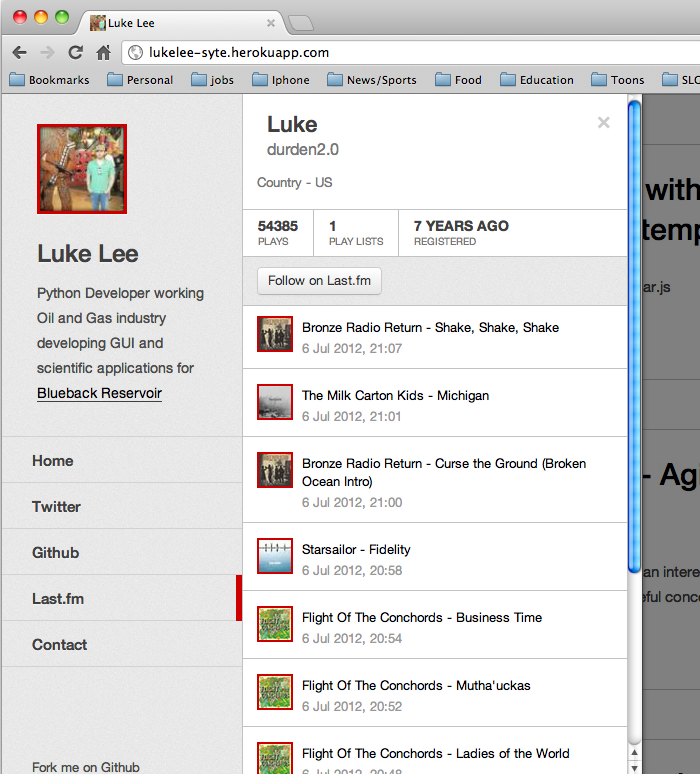
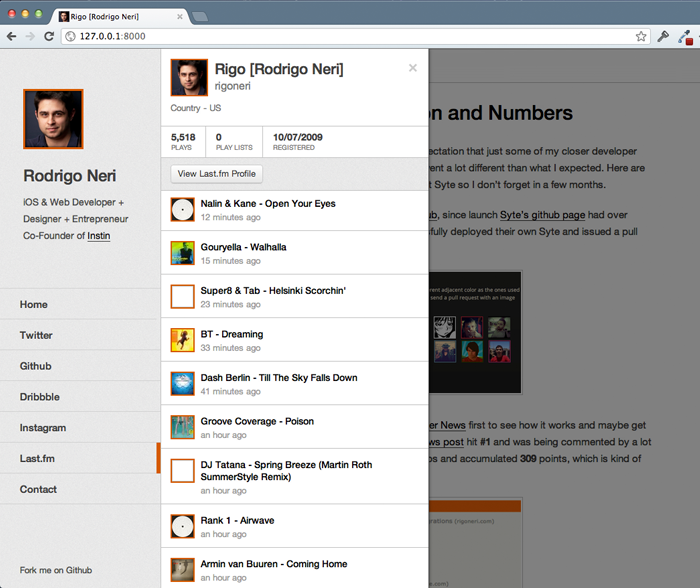
A few Last.fm integration adjustments. I still need to refactor some of the integration views so it's easier to implement but that will have to wait for another day. Closes #67

diff --git a/syte/static/templates/lastfm-profile.html b/syte/static/templates/lastfm-profile.html
@@ -2,23 +2,26 @@
 <div class="profile lastfm modal fade" id="lastfm-profile">
   <div class="profile-info">
     <button class="close" data-dismiss="modal">×</button>
+    {{#if image}}
+    <a href="{{ url }}" class="profile-avatar">
+      <img src="{{ avatar_url image }}" alt="{{name}}" />
+    </a>
+    {{/if}}
     <div class="profile-name">
-      <h2><a href="http://lastfm.com/user/{{ name }}">{{ realname }}</a></h2>
-      <h3><a href="http://lastfm.com/user/{{ name }}">{{ name }}</a></h3>
+        <h2><a href="{{ url }}">{{ realname }}</a></h2>
+      <h3><a href="{{ url }}">{{ name }}</a></h3>
     </div>
     <p class="profile-location-url">
-        {{#if country }}
-        <span>Country - {{ country }}</span>
-        {{/if}}
+      {{#if country }}<span>Country - {{ country }}</span>{{/if}}
     </p>
   </div>
   <ul class="profile-stats">
-    <li><a href="http://lastfm.com/user/{{ name }}"><strong>{{ playcount }}</strong> plays</a></li>
-    <li><a href="http://lastfm.com/user/{{ name }}/playlists"><strong>{{ playlists }}</strong> play lists</a></li>
-    <li><a href="http://lastfm.com/user/{{ name }}"><strong>{{ formatted_register_date }}</strong> registered</a></li>
+    <li><a href="{{ url }}"><strong>{{ formatted_plays }}</strong> plays</a></li>
+    <li><a href="{{ url }}/playlists"><strong>{{ formatted_playlists }}</strong> playlists</a></li>
+    <li><a href="{{ url }}"><strong>{{ formatted_register_date }}</strong> registered</a></li>
   </ul>
   <div class="profile-info-footer">
-    <a href="http://lastfm.com/user/{{ name }}" class="btn">Follow on Last.fm</a>
+    <a href="{{ url }}" class="btn">View Last.fm Profile</a>
   </div>
 {{/with}}
 {{#with recenttracks.recenttracks}}
@@ -28,12 +31,11 @@
         <a href="{{ url }}" class="track-image">
           <img src="{{ image_url image }}" alt="{{ text artist }} - {{ name }}" />
         </a>
-
         <p class="track-detail">
-            <a href="{{ url }}">{{ text artist }} - {{ name }}</a>
+          <a href="{{ url }}">{{ text artist }} - {{ name }}</a>
         </p>
         <p class="track-date">
-          {{ text date }}
+          {{ formatted_date }}
         </p>
       </li>
     {{/each}}

diff --git a/syte/static/js/components/lastfm.js b/syte/static/js/components/lastfm.js
@@ -33,6 +33,10 @@ function setupLastfm(url, el) {
         return obj[0]['#text'];
      });
 
+     Handlebars.registerHelper('avatar_url', function(obj) {
+        return obj[1]['#text'];
+     });
+
      require(["json!/lastfm/" + username, "text!templates/lastfm-profile.html"],
         function(lastfm_data, lastfm_view) {
             if (lastfm_data.error || lastfm_data.length == 0) {
@@ -41,7 +45,15 @@ function setupLastfm(url, el) {
             }
 
             var template = Handlebars.compile(lastfm_view);
-            lastfm_data.user_info.user.formatted_register_date = moment(lastfm_data.user_info.user.registered['#text']);
+            
+            lastfm_data.user_info.user.formatted_plays = numberWithCommas(lastfm_data.user_info.user.playcount);
+            lastfm_data.user_info.user.formatted_playlists = numberWithCommas(lastfm_data.user_info.user.playlists);
+            lastfm_data.user_info.user.formatted_register_date = moment(lastfm_data.user_info.user.registered['#text'], 'YYYY-MM-DD HH:mm').format('MM/DD/YYYY');
+            
+            $.each(lastfm_data.recenttracks.recenttracks.track, function(i, t) {
+                t.formatted_date = moment.utc(t.date['#text'], 'DD MMM YYYY, HH:mm').fromNow();
+            });
+
             $(template(lastfm_data)).modal().on('hidden', function () {
                 $(this).remove();
                 adjustSelection('home-link');

diff --git a/syte/templates/base.html b/syte/templates/base.html
@@ -33,7 +33,7 @@
       <li><a href="http://github.com/rigoneri" id="github-link">Github</a></li>
       <li><a href="http://dribbble.com/rigoneri" id="dribbble-link">Dribbble</a></li>
       <li><a href="http://instagr.am/p/Lau1VrEPbt" id="instagram-link">Instagram</a></li>
-      <li><a href="http://lastfm.com/user/durden2.0" id="lastfm-link">Last.fm</a></li>
+      <li><a href="http://lastfm.com/user/rigoneri" id="lastfm-link">Last.fm</a></li>
       <li><a href="mailto:contact@rigoneri.com?subject=Hello" id="contact-link">Contact</a></li>
     </ul>
   </nav>

diff --git a/syte/static/js/components/links.js b/syte/static/js/components/links.js
@@ -70,6 +70,7 @@ function setupLinks() {
       else if (lastfm_integration_enabled && (url.attr('host') == 'lastfm.com' || url.attr('host') == 'www.lastfm.com')) {
 
         $('#twitter-profile').remove();
+        $('#github-profile').remove();
         $('#dribbble-profile').remove();
         $('#instagram-profile').remove();
         $('.modal-backdrop').remove();

diff --git a/syte/static/less/profiles.less b/syte/static/less/profiles.less
@@ -382,12 +382,15 @@
 .track-detail {
   color: #777;
   margin:0;
-  padding: 3px 0;
-  font-size: 13px;
+  padding: 0 0 3px 0;
+  font-size: 14px;
   line-height: 18px;
   margin-left: 45px;
 
-  a { border-bottom: 0; }
+  a { 
+    border-bottom: 0; 
+    font-weight: 500;
+  }
 }
 
 .track-date {

diff --git a/syte/static/js/components/base.js b/syte/static/js/components/base.js
@@ -27,6 +27,3 @@ var spin_opts = {
   className: 'spinner',
   zIndex: 2e9
 };
-
-
-

diff --git a/syte/syte_settings.py b/syte/syte_settings.py
@@ -58,6 +58,7 @@ GOOGLE_ANALYTICS_TRACKING_ID = ''
 DISQUS_INTEGRATION_ENABLED = False
 DISQUS_SHORTNAME = ''
 
+
 #Lastfm Integration
 LASTFM_INTEGRATION_ENABLED = True
 LASTFM_API_URL = 'http://ws.audioscrobbler.com/2.0/'

diff --git a/syte/settings.py b/syte/settings.py
@@ -64,4 +64,3 @@ INSTALLED_APPS = (
 )
 
 from syte_settings import *
-

diff --git a/README.md b/README.md
@@ -80,9 +80,9 @@ Syte has instagram integration, which means that you can show your instagram pic
 ![Syte Instagram](https://github.com/rigoneri/syte/blob/master/readme-imgs/f-5.png?raw=true)
 
 
-### Lastfm
+### Last.fm
 
-Syte has lastfm integration, which means that when someone clicks on a link that points to a user's lastfm profile the profile information will be loaded directly in the site along with a listing of the most recently scrobbled tracks.
+Syte has Last.fm integration, which means that when someone clicks on a link that points to a user's Last.fm profile the profile information will be loaded directly in the site along with a listing of the most recently scrobbled tracks.
 
 ![Syte Lastfm](https://github.com/rigoneri/syte/blob/master/readme-imgs/f-6.png?raw=true)
 
@@ -233,10 +233,9 @@ If you want to turn off instagram integration just set `INSTAGRAM_INTEGRATION_EN
 
 
 
-### Setting up Lastfm integration
+### Setting up Last.fm integration
 
-The lastfm integration does not make any authenticated calls so setting it up
-only requires that you register an application with Lastfm and get an API key.
+The Last.fm integration does not make any authenticated calls so setting it up only requires that you register an application with Lastfm and get an API key.
 
 To get an API key simply follow the [Getting started instructions](http://www.last.fm/api).  You can then view your API Key from [your api account page](http://www.last.fm/api/account).
 
@@ -245,7 +244,9 @@ Once you have your API Key from Lastfm you have to enter it in your **syte_setti
 * ***API_KEY*** under `LASTFM_API_KEY`
 * ***USERNAME*** under `LASTFM_USERNAME`
 
-If you want to turn off lastfm integration just set `LASTFM_INTEGRATION_ENABLED` to False.
+If you want to turn off Last.fm integration just set `LASTFM_INTEGRATION_ENABLED` to False.
+
+
 
 
 ## Running & Deployment Instructions
